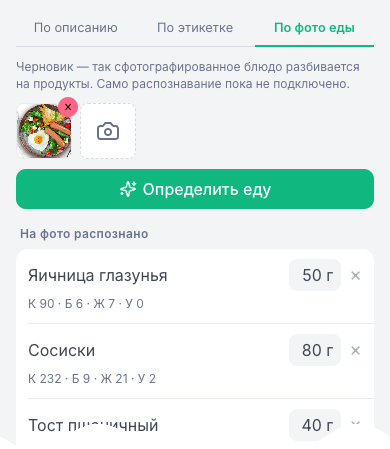
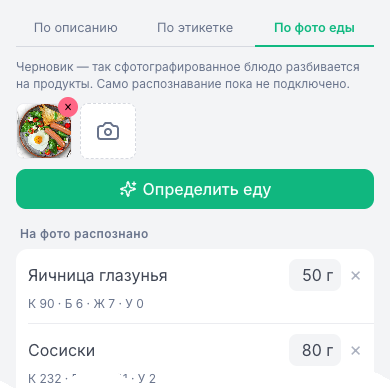
landing-ig0: food-photo — cut the MIDDLE out (vertical, wavy seam) not side-by-side; crop по-описанию to Добавить
Per user: keep the food-photo shot as one vertical image with the middle
elided (wavy torn seam + gap), instead of two halves side by side. Also crop
the «по описанию» how-it-works image to the «Добавить» button (drop empty space).

diff --git a/landing-ig0/index.html b/landing-ig0/index.html
@@ -116,9 +116,9 @@
   .hiw-ph{width:82%;max-width:260px;margin:0 auto;aspect-ratio:39/60;border:2px dashed #C7D0E0;border-radius:20px;
     display:flex;align-items:center;justify-content:center;text-align:center;padding:22px;background:#F7F9FC;color:var(--muted);font-size:14px;line-height:1.4}
   .hiw-ph b{display:block;color:var(--ink-2);font-weight:700;margin-bottom:4px}
-  /* Длинный скрин, разрезанный волной пополам — две половины рядом */
-  .fp-split{display:flex;gap:8px;align-items:flex-start;justify-content:center;margin-top:2px}
-  .fp-split img{width:calc(50% - 4px);height:auto;display:block;filter:drop-shadow(0 12px 24px rgba(14,22,48,.22))}
+  /* Длинный скрин: середина вырезана, верх и низ склеены по вертикали с волнистым срезом */
+  .fp-cut{width:84%;max-width:250px;margin:2px auto 0;display:flex;flex-direction:column;gap:10px}
+  .fp-cut img{width:100%;display:block;filter:drop-shadow(0 10px 22px rgba(14,22,48,.20))}
   .panel-sub{color:var(--muted);font-size:17px}
 
   /* steps (how it works) */
@@ -291,7 +291,7 @@
       <div class="hiw-item">
         <h3>Ввод еды по описанию</h3>
         <p>Чтобы вносить еду, можно воспользоваться искусственным интеллектом — просто введите описание того, что вы съели.</p>
-        <div class="hiw-media"><img src="/img/shot-by-name.png" alt="Ввод еды по описанию" /></div>
+        <div class="hiw-media"><img src="/img/shot-by-name-card.png" alt="Ввод еды по описанию" /></div>
       </div>
 
       <div class="hiw-item">
@@ -303,9 +303,9 @@
       <div class="hiw-item">
         <h3>По фотографии еды</h3>
         <p>Ну и уже стандарт — можно определить то, что вы съели, по фотографии. Метод не очень точный, но рабочий.</p>
-        <div class="fp-split">
-          <img src="/img/foodphoto-top.png" alt="Распознавание блюда по фото — часть 1" />
-          <img src="/img/foodphoto-bottom.png" alt="Распознавание блюда по фото — часть 2" />
+        <div class="fp-cut">
+          <img src="/img/foodphoto-top.png" alt="Распознавание блюда по фото — верх" />
+          <img src="/img/foodphoto-bottom.png" alt="Распознавание блюда по фото — низ" />
         </div>
       </div>
 